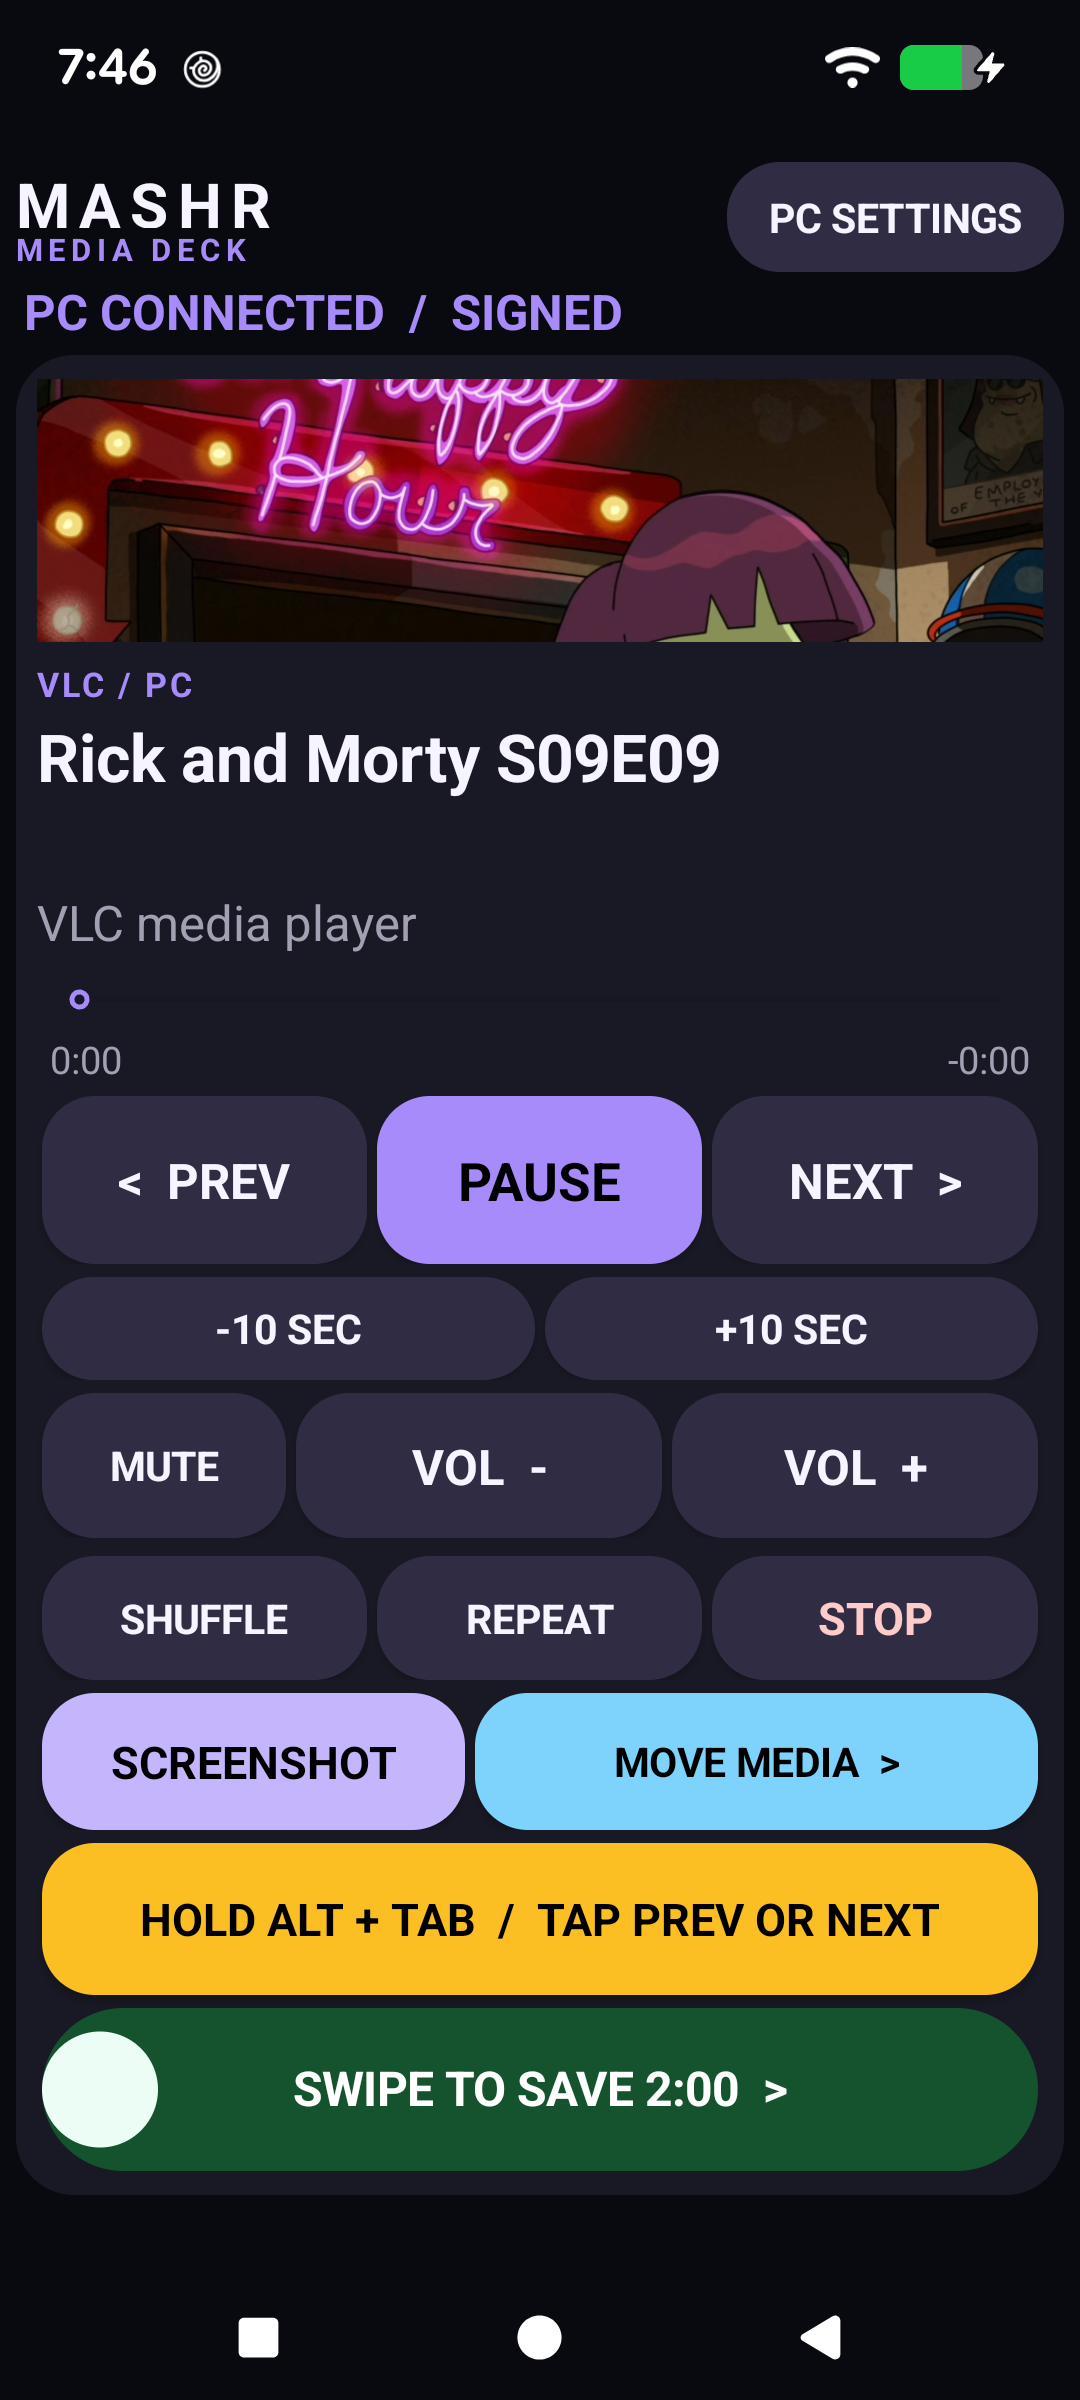
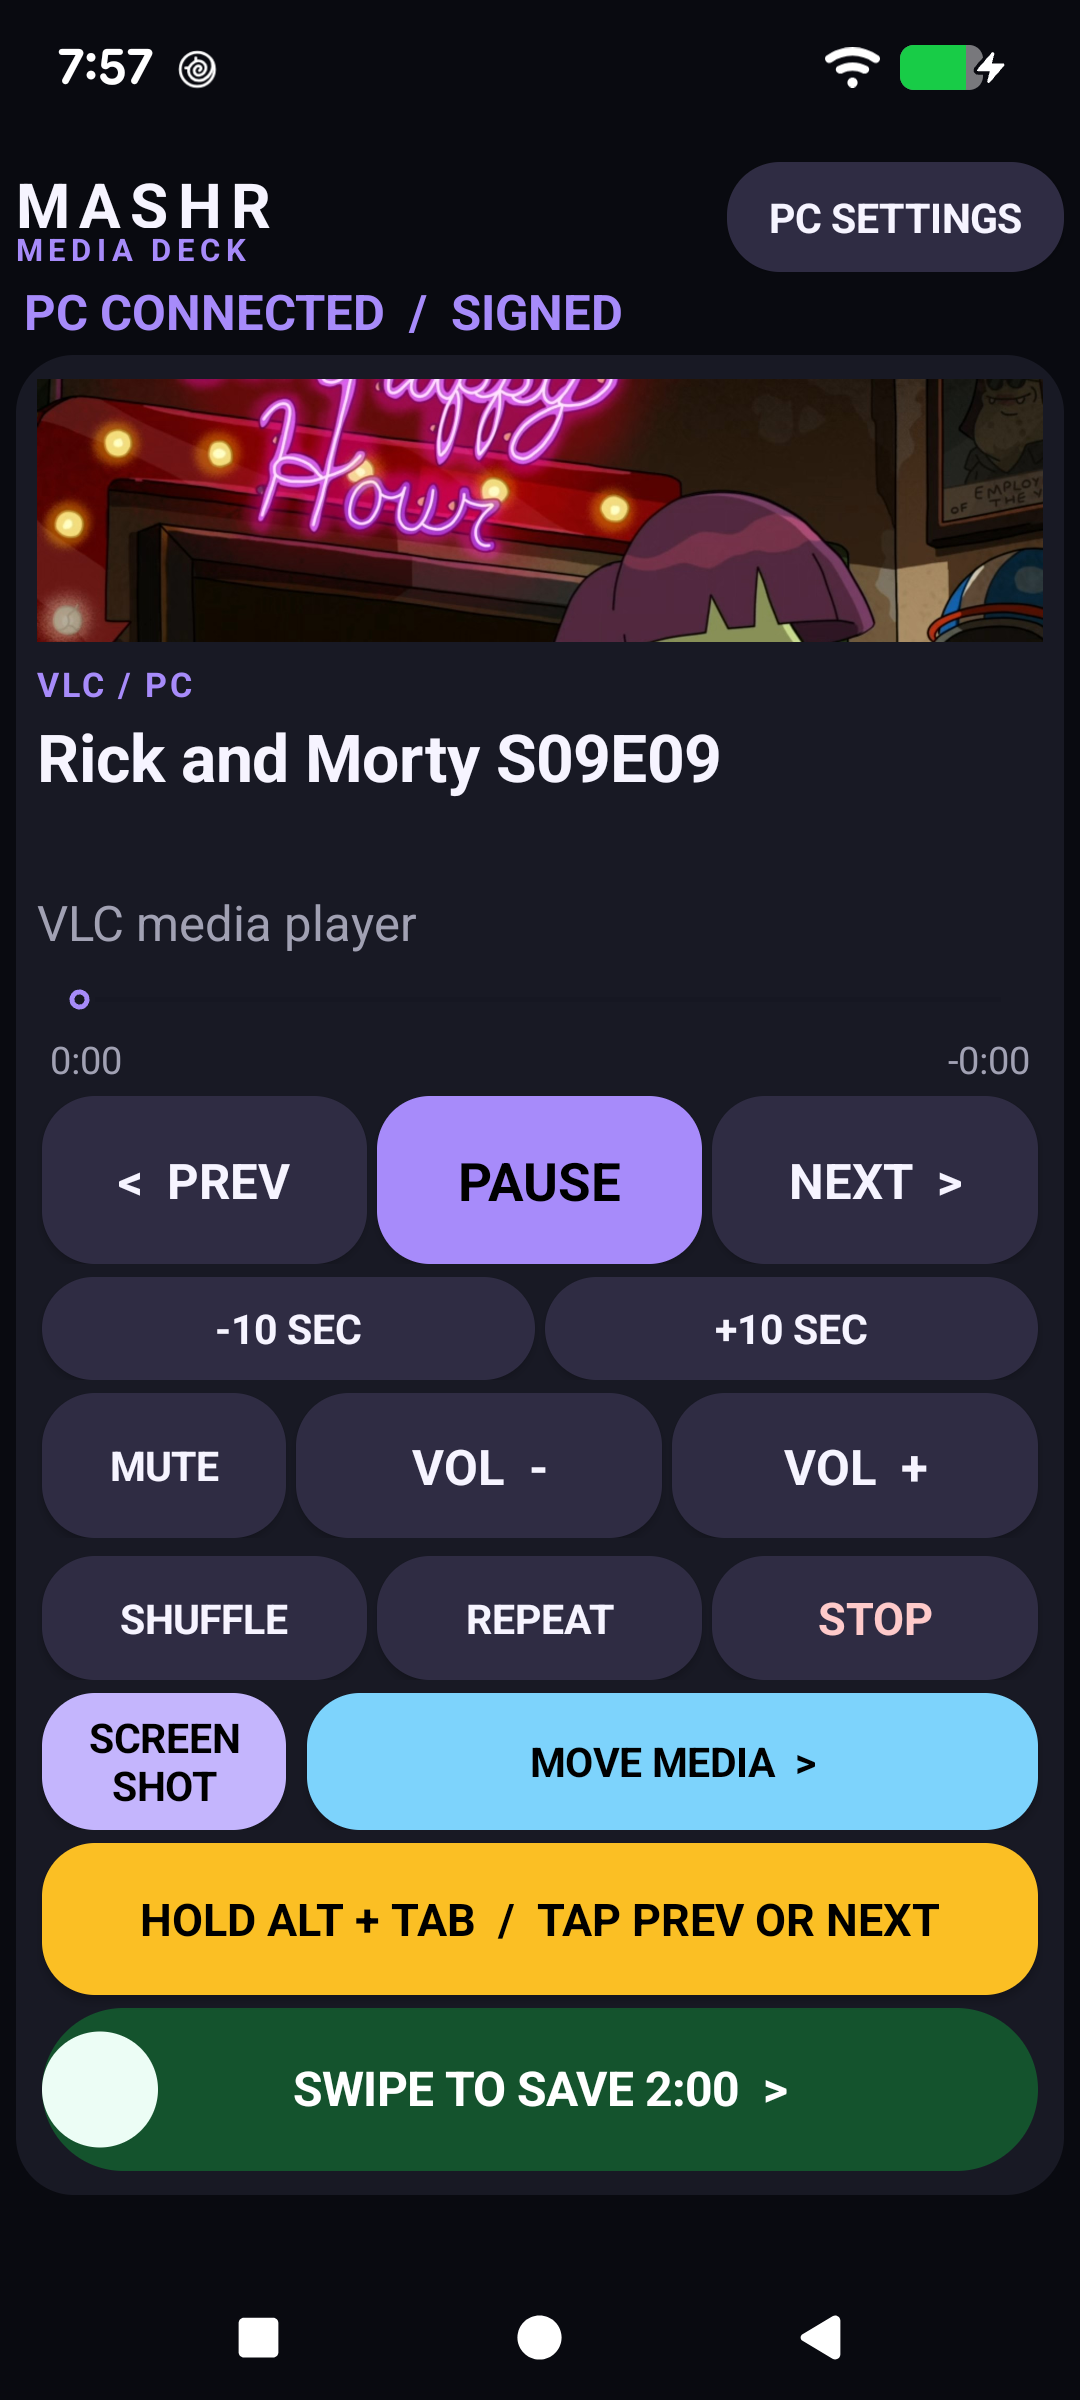
Match screenshot control to mute width

Changed region(s): [[0.0917, 0.6875, 0.4583, 0.7812], [0.4889, 0.7188, 0.7944, 0.75], [0.0917, 0.0, 0.2139, 0.0312]]

diff --git a/app/src/main/java/com/mediadeck/remote/MainActivity.java b/app/src/main/java/com/mediadeck/remote/MainActivity.java
@@ -226,18 +226,22 @@ public final class MainActivity extends Activity {
         LinearLayout utilityRow=new LinearLayout(this);
         utilityRow.setGravity(Gravity.CENTER);
         utilityRow.setPadding(0,dp(5),0,0);
-        Button screenshot=largeAction("SCREENSHOT","screenshot",13);
+        Button screenshot=largeAction("SCREEN\nSHOT","screenshot",12);
+        screenshot.setSingleLine(false);
+        screenshot.setLines(2);
+        screenshot.setGravity(Gravity.CENTER);
         screenshot.setTextColor(Color.BLACK);
         screenshot.setBackground(round(Color.rgb(196,181,253),20));
         screenshot.setContentDescription("Save a screenshot of the PC using NVIDIA Overlay or Windows");
         screenshot.setOnClickListener(v->takeScreenshot());
-        addWeighted(utilityRow,screenshot,.43f);
+        addWeighted(utilityRow,screenshot,.2506f);
+        utilityRow.addView(new View(this),new LinearLayout.LayoutParams(dp(4),1));
         Button moveScreen=largeAction("MOVE MEDIA  >","movescreen",12);
         moveScreen.setTextColor(Color.BLACK);
         moveScreen.setBackground(round(Color.rgb(125,211,252),20));
         moveScreen.setContentDescription("Move the selected PC media window to the next monitor");
         moveScreen.setOnClickListener(v->moveScreen());
-        addWeighted(utilityRow,moveScreen,.57f);
+        addWeighted(utilityRow,moveScreen,.7494f);
         card.addView(utilityRow,new LinearLayout.LayoutParams(-1,dp(57)));
 
         altTab=largeAction("HOLD ALT + TAB  /  TAP PREV OR NEXT","alttab",13);

diff --git a/CHANGELOG.md b/CHANGELOG.md
@@ -16,6 +16,7 @@ All notable MASHR Media Deck changes are recorded here.
 - Extended the control stack toward the Pixel navigation area, made Mute narrower, and gave both volume controls more width, height, and label emphasis.
 - Added a dedicated screenshot button that uses NVIDIA Overlay's configured shortcut when available and falls back to Windows' saved-screenshot shortcut.
 - Reserved a consistent two-line title area so short VLC titles no longer make the deck collapse vertically.
+- Matched the Screenshot button to Mute's width and moved its label onto two clear lines.
 
 ## 1.4.0 — 2026-07-17
 
